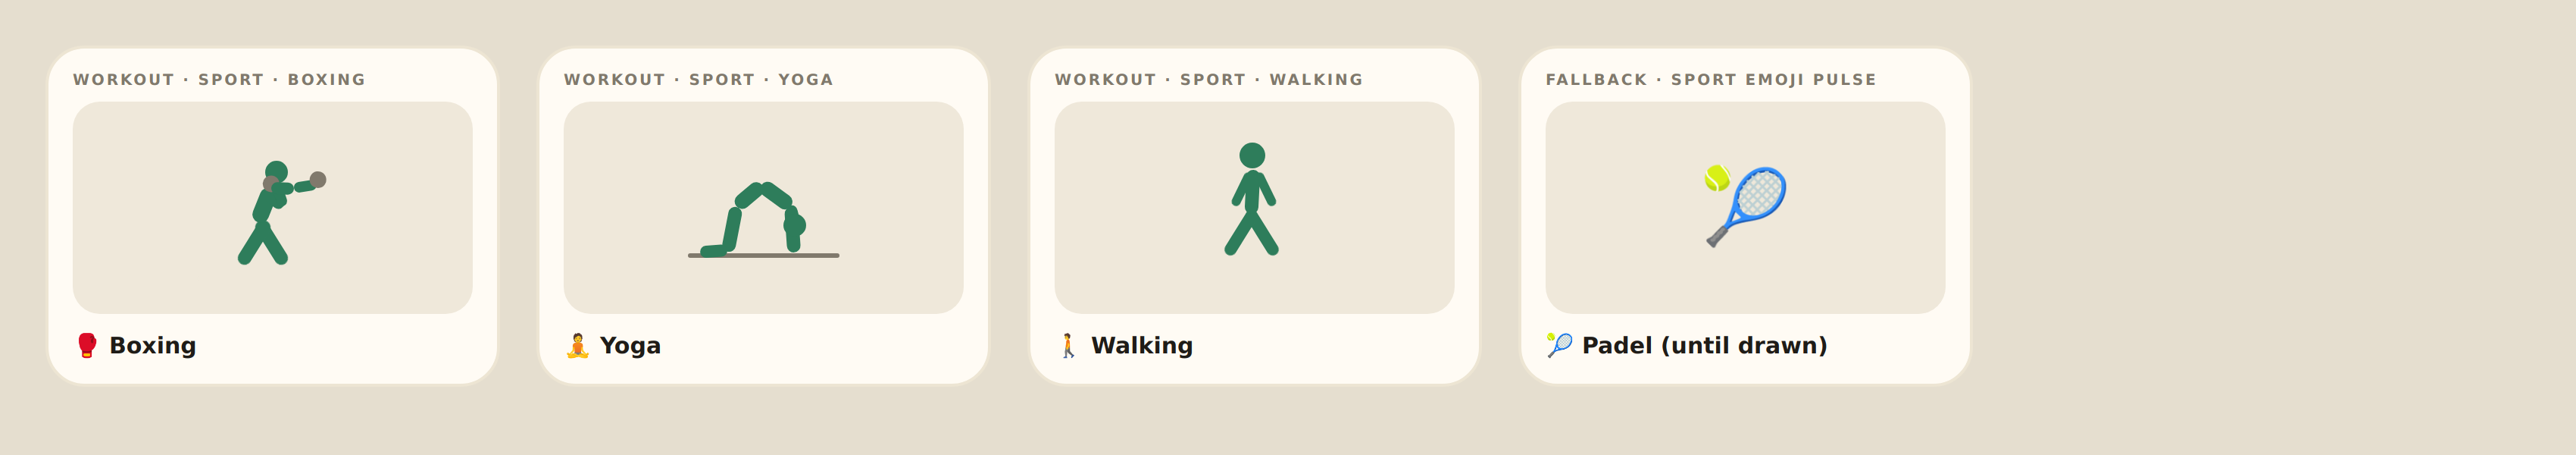
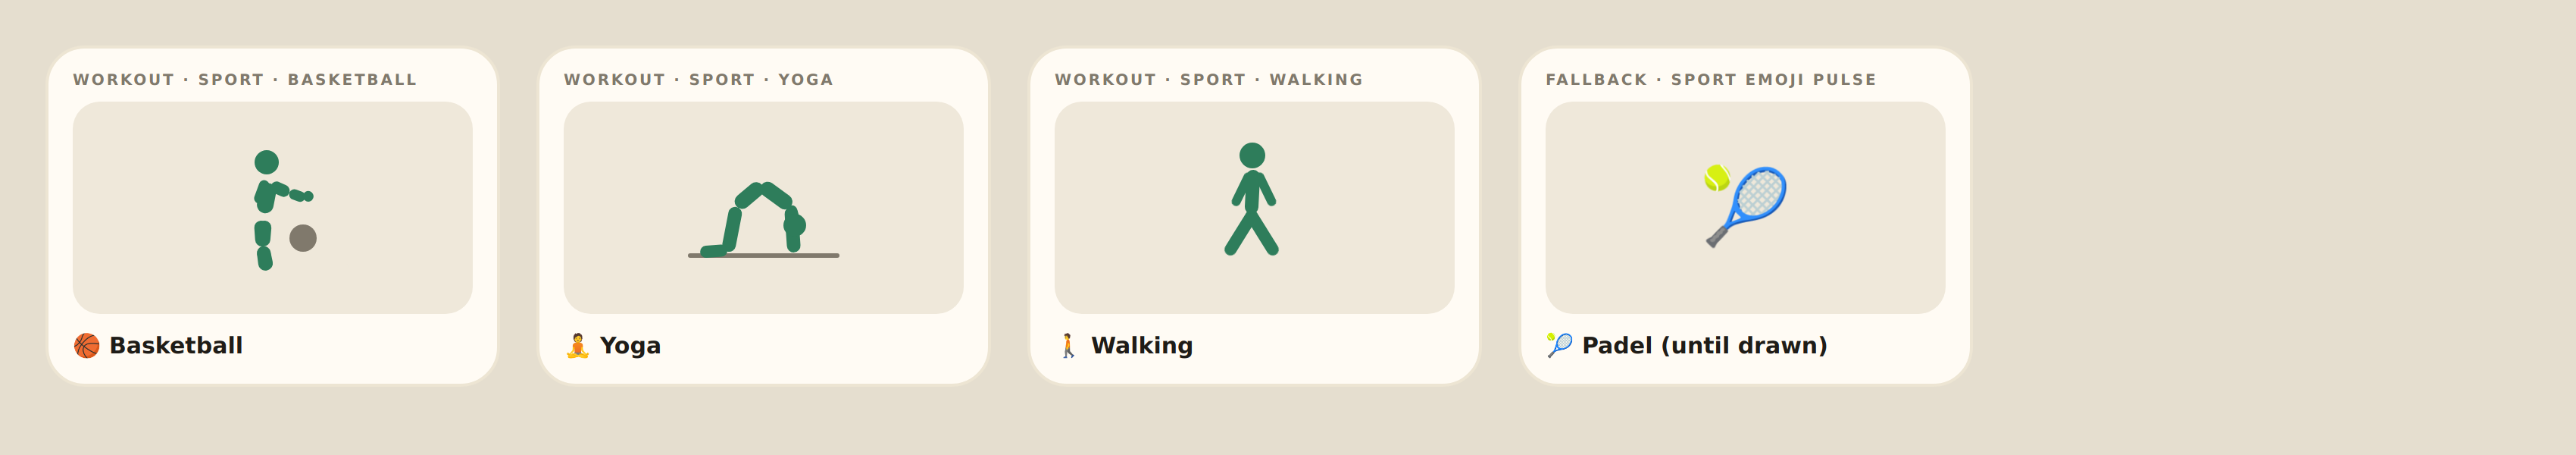
MoveViz: add animated basketball dribble figure (iteration 58)
Side-view dribble: the ball (equip, a clear round ball) bounces between the
hand and the floor; the forearm pushes down as the ball rises to meet it and
lifts as it falls, and the body dips slightly in sync. Athletic crouch with a
dimmed far leg for depth. One bounce per cycle. HTML twin frame added.

Claude-Session: https://claude.ai/code/session_01MAEKquLMVqfVZ9tftgyL9e

Changed region(s): [[0.0935, 0.33, 0.1247, 0.6], [0.0312, 0.72, 0.0935, 0.78], [0.1247, 0.15, 0.1559, 0.21]]

diff --git a/app/src/components/MoveViz.tsx b/app/src/components/MoveViz.tsx
@@ -55,6 +55,7 @@ const DURATION: Record<string, number> = {
   boxing: 900, // a jab then a cross (one each per cycle)
   yoga: 2600, // a slow cat→cow→cat breath
   walking: 1050, // an unhurried stride
+  basketball: 650, // one dribble bounce
 };
 const STATIC_PHASE = 0.25; // mid-movement pose used when motion is reduced
 
@@ -130,6 +131,8 @@ export function MoveViz({ kind, emoji, size = 116, color, tint }: { kind: MoveKi
         <Boxing phase={phase} size={size} fg={fg} bg={bg} equip={equip} />
       ) : kind === 'yoga' ? (
         <Yoga phase={phase} size={size} fg={fg} equip={equip} />
+      ) : kind === 'basketball' ? (
+        <Basketball phase={phase} size={size} fg={fg} bg={bg} equip={equip} />
       ) : (
         <EmojiPulse phase={phase} size={size} emoji={emoji ?? '🏅'} />
       )}
@@ -1026,6 +1029,48 @@ function Yoga({ phase, size, fg, equip }: { phase: SharedValue<number>; size: nu
       <Bone x={shX} y={shY} len={13 * s} w={7 * s} color={fg} rot={neck}>
         <View style={{ position: 'absolute', left: -7.5 * s, top: -7.5 * s, width: 15 * s, height: 15 * s, borderRadius: 99, backgroundColor: fg }} />
       </Bone>
+    </View>
+  );
+}
+
+// --- Basketball: a side-view dribble. The ball (equip) bounces between the hand and the
+// floor; the forearm pushes down as the ball rises to meet it, and the body dips slightly
+// in sync. One bounce per cycle.
+function Basketball({ phase, size, fg, bg, equip }: { phase: SharedValue<number>; size: number; fg: string; bg: string; equip: string }) {
+  const s = size / 116;
+  const bounce = (v: number) => (1 - Math.cos(v * 2 * Math.PI)) / 2; // 0 ball up at hand → 1 ball on floor
+  const ball = useAnimatedStyle(() => { 'worklet'; return { transform: [{ translateY: bounce(phase.value) * 25 * s }] }; });
+  // forearm pushes down (toward the ball) as the ball rises; lifts as it falls
+  const farm = useAnimatedStyle(() => { 'worklet'; return { transform: [{ rotate: `${-3 - bounce(phase.value) * 28}deg` }] }; });
+  // body dips a touch on the push
+  const dip = useAnimatedStyle(() => { 'worklet'; return { transform: [{ translateY: (1.5 - bounce(phase.value) * 1.5) * s }] }; });
+  const stat = (d: number) => ({ transform: [{ rotate: `${d}deg` }] });
+  return (
+    <View style={{ width: size, height: size }}>
+      <View style={{ position: 'absolute', left: size * 0.08, right: size * 0.08, bottom: size * 0.16, height: 3 * s, borderRadius: 99, backgroundColor: bg }} />
+      {/* the ball — authored at its top (by the hand), bounces down to the floor */}
+      <Animated.View style={[{ position: 'absolute', left: 69 * s, top: 51 * s, width: 18 * s, height: 18 * s, borderRadius: 99, backgroundColor: equip }, ball]} />
+      <Animated.View style={[{ position: 'absolute', left: 0, top: 0, width: size, height: size }, dip]}>
+        {/* far leg (dimmed for depth) + near leg, both bent in an athletic crouch */}
+        <View style={{ position: 'absolute', left: 0, top: 0, width: size, height: size, opacity: 0.7 }}>
+          <Bone x={50 * s} y={62 * s} len={17 * s} w={9 * s} color={fg} rot={stat(86)}>
+            <Bone x={0} y={0} len={16 * s} w={9 * s} color={fg} rot={stat(-8)} />
+          </Bone>
+        </View>
+        <Bone x={53 * s} y={62 * s} len={17 * s} w={9 * s} color={fg} rot={stat(95)}>
+          <Bone x={0} y={0} len={16 * s} w={9 * s} color={fg} rot={stat(-12)} />
+        </Bone>
+        {/* off arm, torso, head */}
+        <Bone x={53 * s} y={44 * s} len={15 * s} w={7 * s} color={fg} rot={stat(108)} />
+        <Bone x={52 * s} y={62 * s} len={20 * s} w={11 * s} color={fg} rot={stat(-79)} />
+        <View style={{ position: 'absolute', left: 46 * s, top: 20 * s, width: 16 * s, height: 16 * s, borderRadius: 99, backgroundColor: fg }} />
+        {/* dribbling arm: upper arm fixed, forearm pushes the ball */}
+        <Bone x={57 * s} y={43 * s} len={13 * s} w={8 * s} color={fg} rot={stat(25)}>
+          <Bone x={0} y={0} len={11 * s} w={7 * s} color={fg} rot={farm}>
+            <View style={{ position: 'absolute', left: -3 * s, top: -3 * s, width: 7 * s, height: 7 * s, borderRadius: 99, backgroundColor: fg }} />
+          </Bone>
+        </Bone>
+      </Animated.View>
     </View>
   );
 }

diff --git a/mockups/redesign/expressive/prototype-v3/moveviz-preview.html b/mockups/redesign/expressive/prototype-v3/moveviz-preview.html
@@ -180,6 +180,21 @@ body{background:#E5DECF;font-family:'Plus Jakarta Sans',system-ui,sans-serif;dis
 .lp .thigh{left:46px;top:60px;width:24px;height:9px;transform-origin:left center;transform:rotate(-20deg)}
 .lp .shin{left:24px;top:0;width:24px;height:9px;transform-origin:left center;transform:rotate(16deg)} /* child of thigh */
 .lp .foot{left:22px;top:-15px;width:8px;height:34px;border-radius:5px;background:var(--grn)} /* child of shin: footplate */
+/* basketball: side-view dribble — ball mid-bounce, arm reaching down, athletic crouch */
+.bb{position:relative;width:116px;height:116px}
+.bb b{position:absolute;border-radius:99px;background:var(--grn)}
+.bb .ground{left:8px;right:8px;bottom:18px;height:3px;background:var(--navbg)}
+.bb .ball{position:absolute;left:69px;top:69px;width:18px;height:18px;border-radius:99px;background:var(--mut)}
+.bb .head{left:46px;top:20px;width:16px;height:16px}
+.bb .torso{left:52px;top:56px;width:20px;height:11px;transform-origin:left center;transform:rotate(-79deg)}
+.bb .thN{left:53px;top:62px;width:17px;height:9px;transform-origin:left center;transform:rotate(95deg)}
+.bb .shN{left:17px;top:0;width:16px;height:9px;transform-origin:left center;transform:rotate(-12deg)}
+.bb .thF{left:50px;top:62px;width:17px;height:9px;transform-origin:left center;transform:rotate(86deg)}
+.bb .shF{left:17px;top:0;width:16px;height:9px;transform-origin:left center;transform:rotate(-8deg)}
+.bb .uarm{left:57px;top:39px;width:13px;height:8px;transform-origin:left center;transform:rotate(25deg)}
+.bb .farm{left:13px;top:0;width:11px;height:7px;transform-origin:left center;transform:rotate(-5deg)}
+.bb .hand{left:9px;top:-2px;width:7px;height:7px} /* child of forearm */
+.bb .barm{left:50px;top:40px;width:7px;height:16px;transform-origin:top center;transform:rotate(20deg)} /* off arm */
 /* walking: calm upright stride — smaller leg/arm swing than the runner, little bob */
 .wk{position:relative;width:116px;height:116px}
 .wk b{position:absolute;border-radius:99px;background:var(--grn)}
@@ -299,14 +314,15 @@ body{background:#E5DECF;font-family:'Plus Jakarta Sans',system-ui,sans-serif;dis
 .hp .plate{left:56px;top:40px;width:23px;height:23px;border-radius:99px;background:var(--grn)} /* loaded plate, edge-on */
 </style></head><body>
 <div class="card">
- <div class="lbl">WORKOUT · SPORT · BOXING</div>
- <div class="stage"><div class="bx">
-  <b class="ground"></b>
-  <b class="legB"></b><b class="legF"></b><b class="torso"></b><b class="head"></b>
-  <b class="uarmB"><b class="foreB"><b class="glove"></b></b></b>
-  <b class="uarmA"><b class="foreA"><b class="glove"></b></b></b>
+ <div class="lbl">WORKOUT · SPORT · BASKETBALL</div>
+ <div class="stage"><div class="bb">
+  <b class="ground"></b><b class="ball"></b>
+  <b class="thF"><b class="shF"></b></b>
+  <b class="barm"></b>
+  <b class="thN"><b class="shN"></b></b><b class="torso"></b><b class="head"></b>
+  <b class="uarm"><b class="farm"><b class="hand"></b></b></b>
  </div></div>
- <div class="name">🥊 Boxing</div>
+ <div class="name">🏀 Basketball</div>
 </div>
 <div class="card">
  <div class="lbl">WORKOUT · SPORT · YOGA</div>